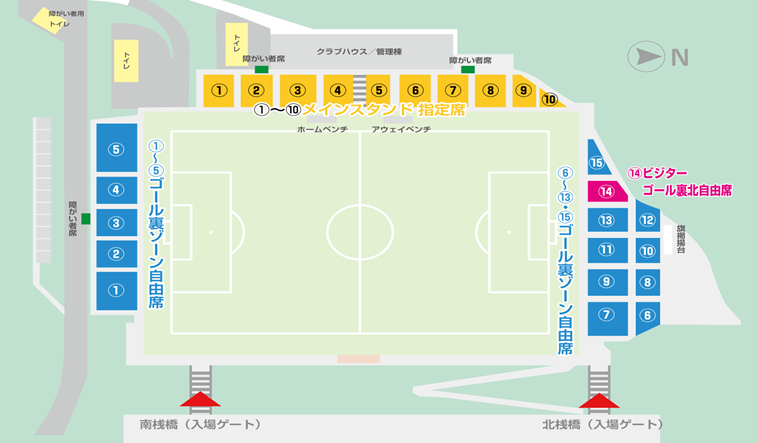
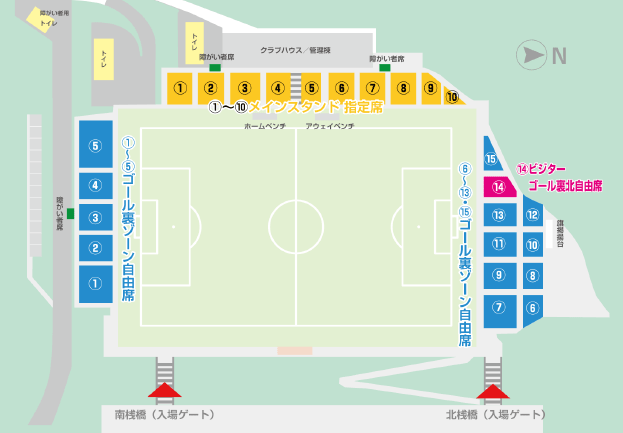
座席指定画面のデザイン対応

diff --git a/src/pages/ticket/_id/index.vue b/src/pages/ticket/_id/index.vue
@@ -149,13 +149,23 @@
                       cols="12"
                       md="6"
                     >
-                      <vue-photo-zoom-pro :url="zoneImg" :mask="false" :width="250"></vue-photo-zoom-pro>
+                      <!-- <vue-photo-zoom-pro :url="zoneImg" :mask="false" :width="250"></vue-photo-zoom-pro> -->
+                      <div align="center" class="resize-logo">
+                        <section>
+                          <img :src="zoneImg.url" :preview="zoneImg.preview" width=100%>
+                        </section>
+                      </div>
                     </v-col>
                     <v-col
                       cols="12"
                       md="6"
                     >
-                      <vue-photo-zoom-pro :url="seatImg" :mask="false" :width="250"></vue-photo-zoom-pro>
+                      <!-- <vue-photo-zoom-pro :url="seatImg" :mask="false" :width="250"></vue-photo-zoom-pro> -->
+                      <div align="center" class="resize-logo">
+                        <section>
+                          <img :src="seatImg.url" :preview="seatImg.preview" width=100%>
+                        </section>
+                      </div>
                     </v-col>
                   </v-row>
                   </v-card-text>
@@ -366,17 +376,28 @@
 <script>
 import Vue from 'vue'
 import VueQrcode from "@chenfengyuan/vue-qrcode"
-import VuePhotoZoomPro from 'vue-photo-zoom-pro'
+// import VuePhotoZoomPro from 'vue-photo-zoom-pro'
+import preview from 'vue-photo-preview'
+import 'vue-photo-preview/dist/skin.css'
+Vue.use(preview)
 
-Vue.use(VuePhotoZoomPro)
+// Vue.use(VuePhotoZoomPro)
 
 export default {
   components: {
     VueQrcode
   },
   data: () => ({
-    zoneImg: require('@/assets/images/zone.png'),
-    seatImg: require('@/assets/images/seat.png'),
+    // zoneImg: require('@/assets/images/zone.png'),
+    // seatImg: require('@/assets/images/seat.png'),
+    zoneImg: {
+          url: require('@/assets/images/zone.png'),
+          preview: '1'
+        },
+    seatImg: {
+          url: require('@/assets/images/seat.png'),
+          preview: '2'
+        },
     item: [],
     product_list: [],
     seat_reserved_product: new Set(),
@@ -736,5 +757,8 @@ export default {
 }
 .center_text{
   display: inline-block;
+}
+.resize-logo {
+  cursor: zoom-in; 
 }
 </style>
